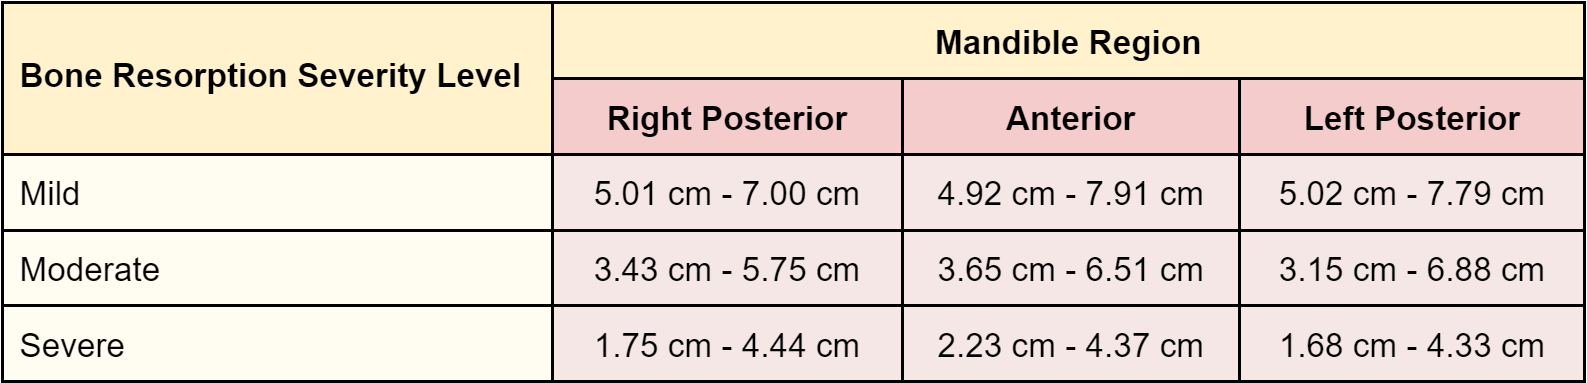
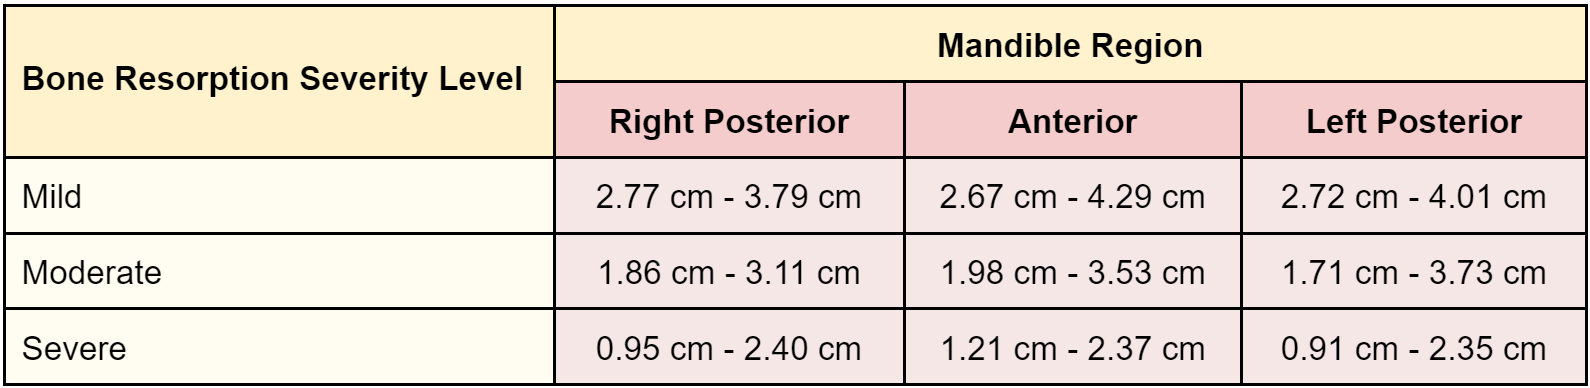
hih

diff --git a/streamlit_ui.py b/streamlit_ui.py
@@ -76,7 +76,7 @@ with left:
     )
     with open("sample_image_input.JPG", "rb") as file:
         btn = st.download_button(
-            label="Download image input sample",
+            label="Download sample image for data testing",
             data=file,
             file_name="sample_image_input.JPG",
             mime="image/png"
@@ -330,19 +330,19 @@ if uploaded_data is not None:
         colA, colB, colC = st.columns([1,1,1])
         with colA:
             if bR: 
-                st.metric("Right Posterior Mandible", estSevCR[0], f"Bone Height: {str(boneHeightR)} cm")
+                st.metric("Right Posterior Mandible", estSevCR[0], f"Bone Height: {(boneHeightR*0.5417774472783):.2f} cm")
             else:
                 st.metric("Right Posterior Mandible", "Region not found")
     
         with colB:
             if bC:
-                st.metric("Anterior Mandible", estSevCC[0], f"Bone Height: {str(boneHeightC)} cm")
+                st.metric("Anterior Mandible", estSevCC[0], f"Bone Height: {(boneHeightC*0.5417774472783):.2f} cm")
             else:
                 st.metric("Anterior Mandible", "Region not found")
     
         with colC:
             if bL:
-                st.metric("Left Posterior Mandible", estSevCL[0], f"Bone Height: {str(boneHeightL)} cm") 
+                st.metric("Left Posterior Mandible", estSevCL[0], f"Bone Height: {(boneHeightL*0.5417774472783):.2f} cm") 
             else:
                 st.metric("Left Posterior Mandible", "Region not found") 
     

diff --git a/boneHeightMeasurement.py b/boneHeightMeasurement.py
@@ -315,7 +315,6 @@ def getHeight(img,outputBg, contourCoorList, fileName, ori):
   finalPlot(filtered_x_upper_coors, filtered_x_lower_coors, middle_coors, found_match, bottom_left, bottom_right, test_x, test_y, matched, fileName, ori)
 
   height_cm = height * 2.54 / 96
-  height_cm = round(height_cm, 2)
   return height_cm
 
 def getBoneHeightWithImage(ori_input_image, maskRGB_arr):
